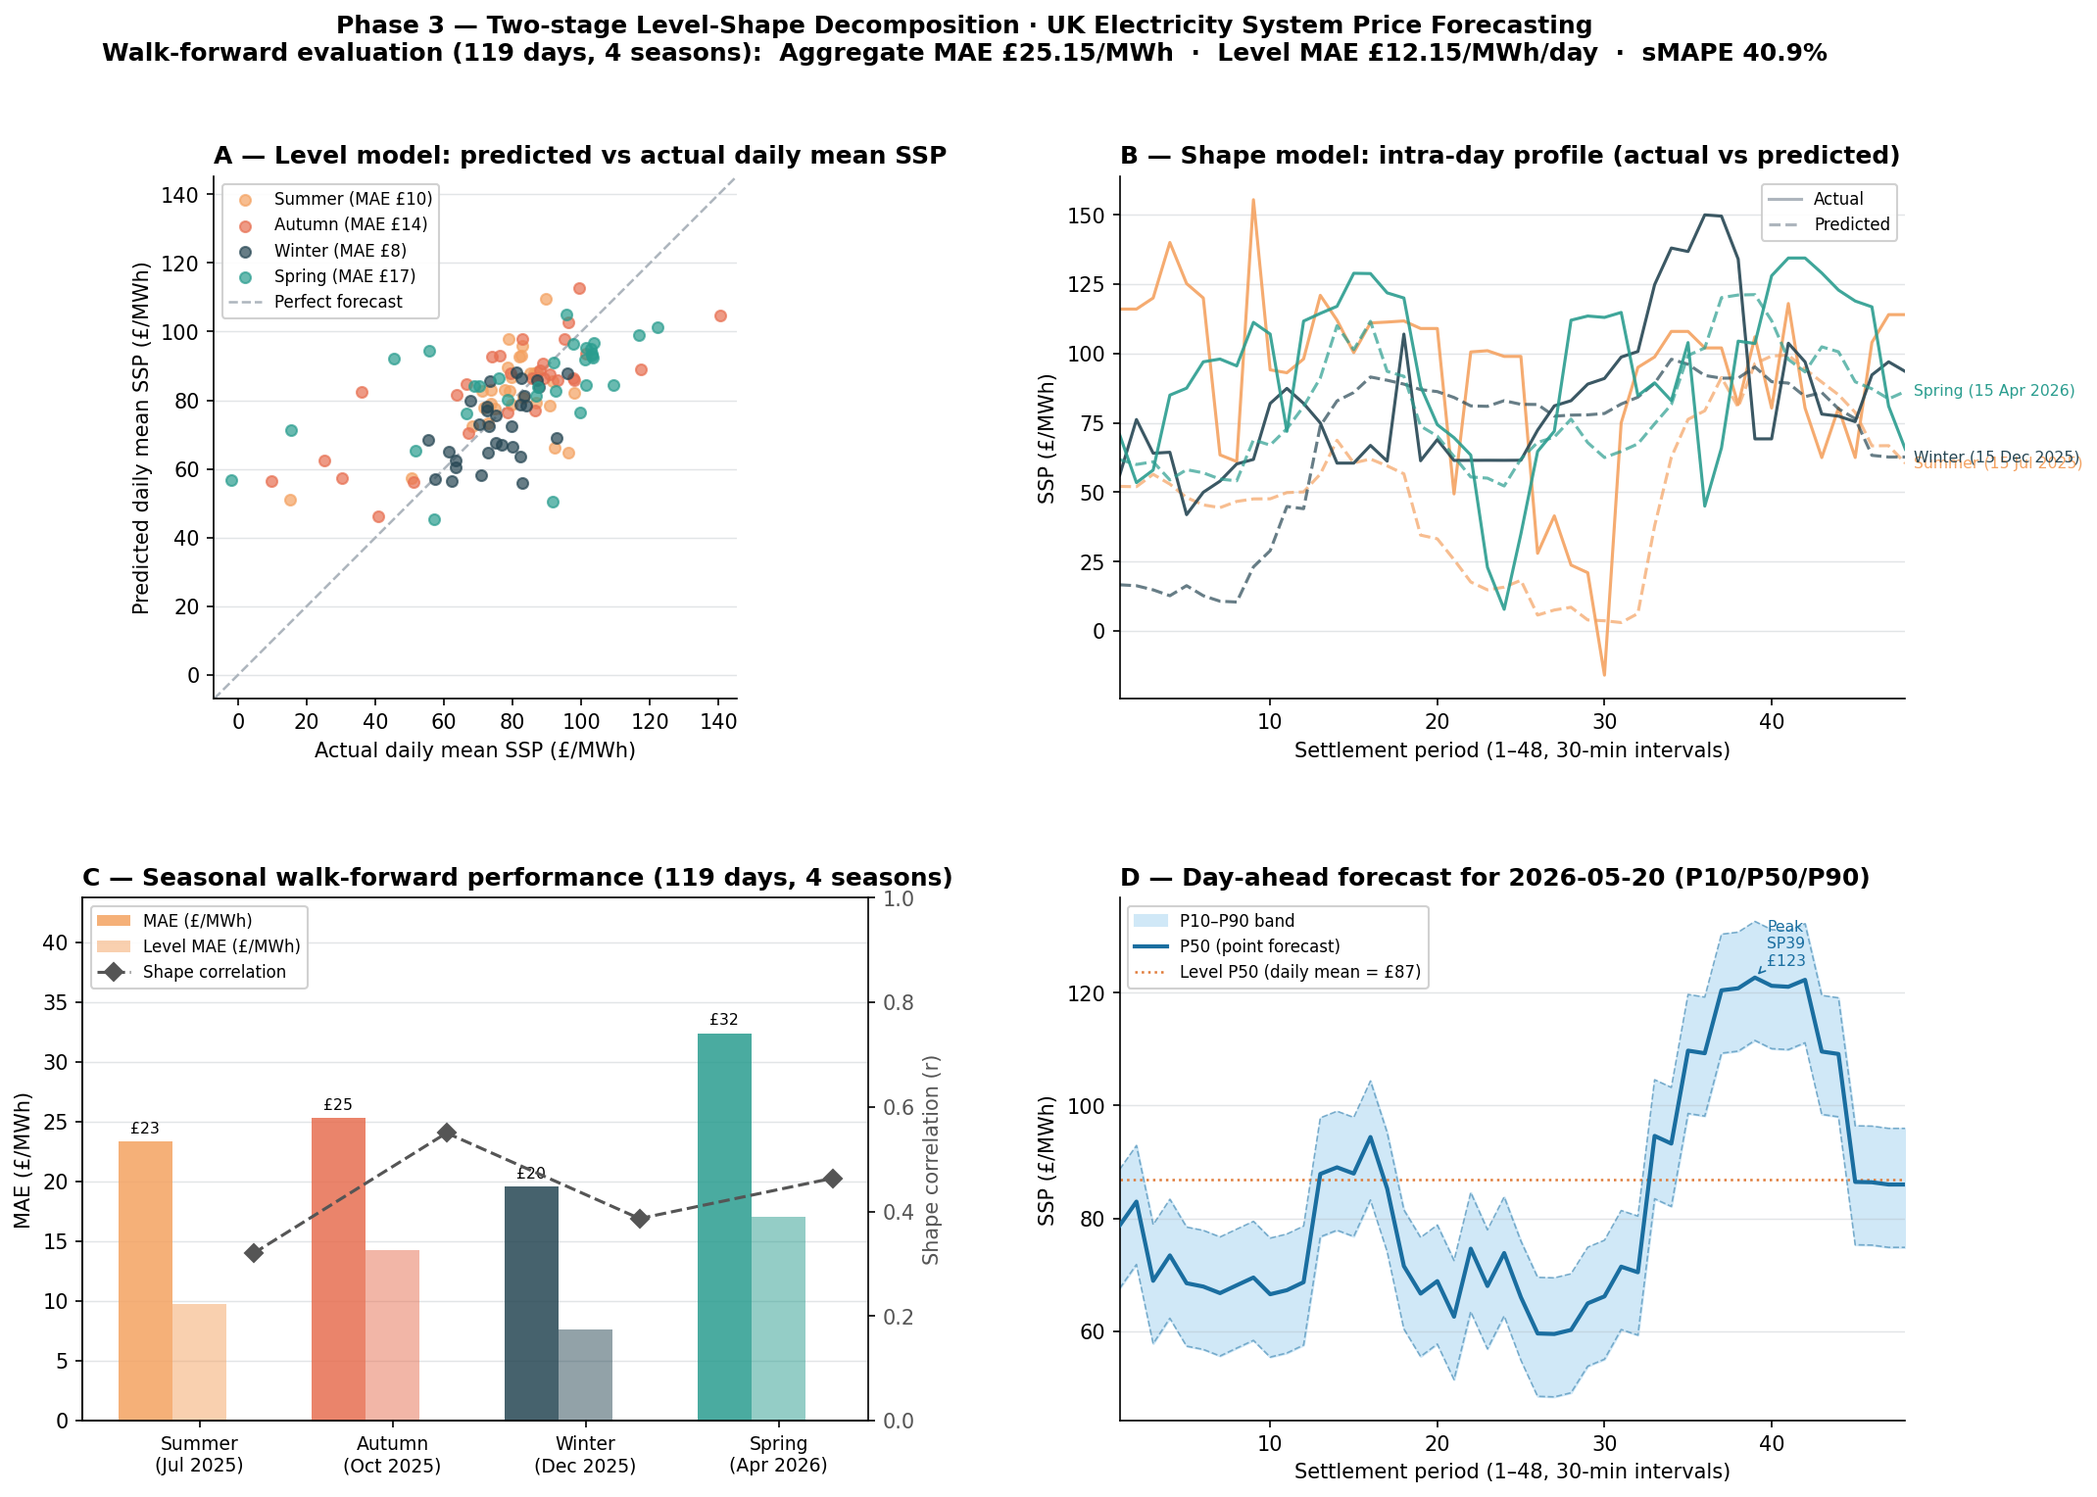
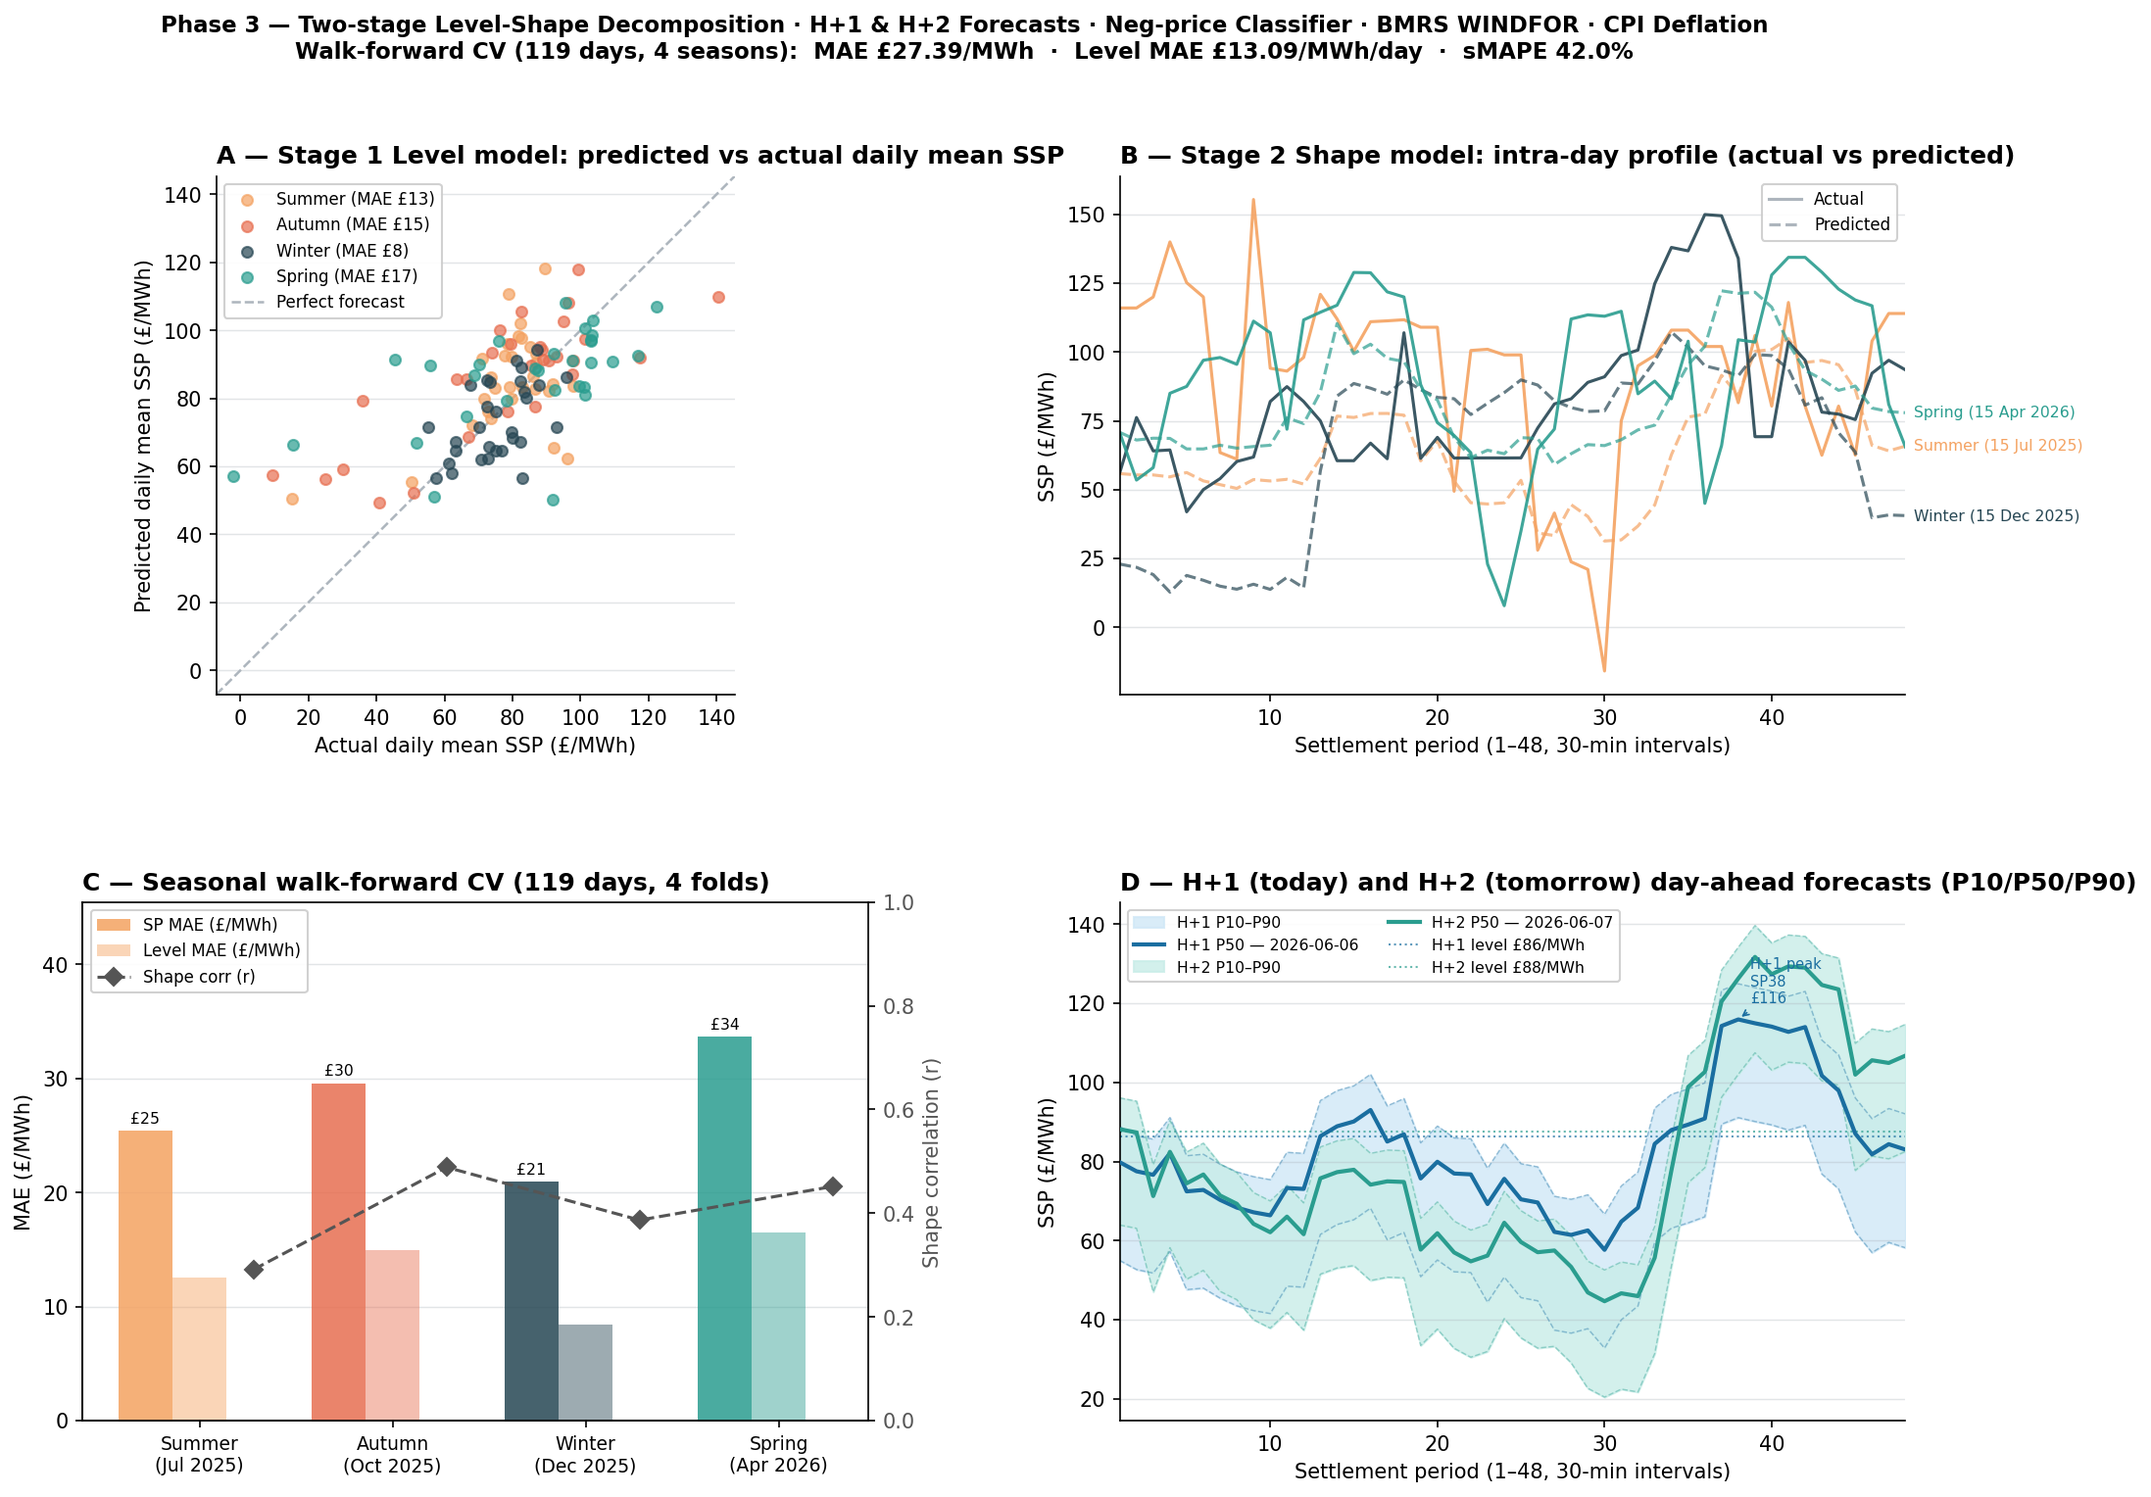
Update demo: Panel D shows H+1 and H+2 forecasts; refresh suptitle
- Panel D now overlays H+1 (blue) and H+2 (teal) P10/P50/P90 bands
  with level reference lines for both horizons
- Suptitle updated to mention H+2, neg-price classifier, WINDFOR, CPI deflation
- Panel C shape correlation fixed to use raw r (not scaled)
- Removed unused peak_timing metric from decomp_metrics

diff --git a/demo/demo_phase3.py b/demo/demo_phase3.py
@@ -6,7 +6,7 @@ Generates a four-panel figure from pre-computed results (no model re-training):
   Panel A — Level model: predicted vs actual daily mean SSP across 4 seasons
   Panel B — Shape model: intra-day profiles for three example days
   Panel C — Seasonal walk-forward performance summary
-  Panel D — Tomorrow's P10/P50/P90 forecast (latest available)
+  Panel D — H+1 (today) and H+2 (tomorrow) P10/P50/P90 forecasts
 
 Usage:
     python demo/demo_phase3.py
@@ -17,20 +17,19 @@ import argparse
 from pathlib import Path
 
 import matplotlib
-import matplotlib.dates as mdates
 import matplotlib.gridspec as gridspec
-import matplotlib.patches as mpatches
 import matplotlib.pyplot as plt
 import numpy as np
 import pandas as pd
+from matplotlib.lines import Line2D
 from scipy.stats import pearsonr
 
 ROOT = Path(__file__).resolve().parents[1]
 
-ASSETS    = ROOT / "model_assets"
-WF_FILE   = ASSETS / "walk_forward_predictions.csv"
-TEST_FILE = ASSETS / "test_predictions_phase3.csv"
-FC_FILE   = ASSETS / "next_day_forecast_phase3.csv"
+ASSETS   = ROOT / "model_assets"
+WF_FILE  = ASSETS / "walk_forward_predictions.csv"
+FC_H1    = ASSETS / "next_day_forecast_phase3.csv"   # H+1 today
+FC_H2    = ASSETS / "day2_forecast_phase3.csv"        # H+2 tomorrow
 
 FOLD_ORDER  = ["summer-2025", "autumn-2025", "winter-2025", "spring-2026"]
 FOLD_LABELS = ["Summer\n(Jul 2025)", "Autumn\n(Oct 2025)",
@@ -38,10 +37,11 @@ FOLD_LABELS = ["Summer\n(Jul 2025)", "Autumn\n(Oct 2025)",
 FOLD_COLORS = ["#f4a261", "#e76f51", "#264653", "#2a9d8f"]
 
 BLUE   = "#1a6ea0"
+TEAL   = "#2a9d8f"
 ORANGE = "#e07b39"
 GREY   = "#adb5bd"
-GREEN  = "#2a9d8f"
-BAND   = "#d0e8f7"
+BAND_H1 = "#d0e8f7"
+BAND_H2 = "#c8ede8"
 
 
 # ── helpers ───────────────────────────────────────────────────────────────────
@@ -52,7 +52,7 @@ def smape_val(actual, pred):
 
 
 def decomp_metrics(df):
-    level_errs, shape_corrs, peak_gaps = [], [], []
+    level_errs, shape_corrs = [], []
     for _, grp in df.groupby("settlement_date"):
         grp = grp.sort_values("settlement_period")
         level_errs.append(abs(grp["pred_level_q50"].iloc[0] - grp["actual_daily_level"].iloc[0]))
@@ -61,12 +61,9 @@ def decomp_metrics(df):
         if a.std() > 0 and p.std() > 0:
             r, _ = pearsonr(a, p)
             shape_corrs.append(r)
-        peak_gaps.append(abs(np.argmax(grp["ssp_actual"].values) -
-                             np.argmax(grp["ssp_predicted"].values)))
     return {
         "level_mae":  np.mean(level_errs),
         "shape_corr": np.mean(shape_corrs),
-        "peak_timing": np.mean(peak_gaps),
     }
 
 
@@ -84,9 +81,12 @@ def panel_level(ax, wf: pd.DataFrame):
 
     for fold, color in zip(FOLD_ORDER, FOLD_COLORS):
         sub = daily[daily["fold"] == fold].sort_values("settlement_date")
+        if sub.empty:
+            continue
         mae = (sub["predicted"] - sub["actual"]).abs().mean()
         ax.scatter(sub["actual"], sub["predicted"], color=color, alpha=0.7,
-                   s=28, zorder=3, label=f"{fold.split('-')[0].capitalize()} (MAE £{mae:.0f})")
+                   s=28, zorder=3,
+                   label=f"{fold.split('-')[0].capitalize()} (MAE £{mae:.0f})")
 
     lims = [daily[["actual", "predicted"]].min().min() - 5,
             daily[["actual", "predicted"]].max().max() + 5]
@@ -94,7 +94,8 @@ def panel_level(ax, wf: pd.DataFrame):
     ax.set_xlim(lims); ax.set_ylim(lims)
     ax.set_xlabel("Actual daily mean SSP (£/MWh)")
     ax.set_ylabel("Predicted daily mean SSP (£/MWh)")
-    ax.set_title("A — Level model: predicted vs actual daily mean SSP", fontweight="bold", loc="left")
+    ax.set_title("A — Stage 1 Level model: predicted vs actual daily mean SSP",
+                 fontweight="bold", loc="left")
     ax.legend(fontsize=8, framealpha=0.9)
     ax.set_aspect("equal")
 
@@ -102,23 +103,26 @@ def panel_level(ax, wf: pd.DataFrame):
 def panel_shape(ax, wf: pd.DataFrame):
     """Panel B: intra-day shape profiles for one representative day per fold type."""
     examples = {
-        "summer-2025":  "2025-07-15",
-        "winter-2025":  "2025-12-15",
-        "spring-2026":  "2026-04-15",
+        "summer-2025": "2025-07-15",
+        "winter-2025": "2025-12-15",
+        "spring-2026": "2026-04-15",
     }
-    label_map = {"summer-2025": "Summer (15 Jul 2025)",
-                 "winter-2025": "Winter (15 Dec 2025)",
-                 "spring-2026": "Spring (15 Apr 2026)"}
-    colors    = {"summer-2025": FOLD_COLORS[0],
-                 "winter-2025": FOLD_COLORS[2],
-                 "spring-2026": FOLD_COLORS[3]}
+    label_map = {
+        "summer-2025": "Summer (15 Jul 2025)",
+        "winter-2025": "Winter (15 Dec 2025)",
+        "spring-2026": "Spring (15 Apr 2026)",
+    }
+    colors = {
+        "summer-2025": FOLD_COLORS[0],
+        "winter-2025": FOLD_COLORS[2],
+        "spring-2026": FOLD_COLORS[3],
+    }
 
     for fold, date in examples.items():
         sub = wf[(wf["fold"] == fold) & (wf["settlement_date"] == date)].sort_values("settlement_period")
         if sub.empty:
-            # pick any day from that fold
             sub = wf[wf["fold"] == fold].sort_values("settlement_date")
-            date = sub["settlement_date"].iloc[len(sub)//2]
+            date = sub["settlement_date"].iloc[len(sub) // 2]
             sub  = wf[(wf["fold"] == fold) & (wf["settlement_date"] == date)].sort_values("settlement_period")
         sp   = sub["settlement_period"].values
         act  = sub["ssp_actual"].values
@@ -130,40 +134,43 @@ def panel_shape(ax, wf: pd.DataFrame):
                     xytext=(4, 0), textcoords="offset points",
                     fontsize=7.5, color=c, va="center")
 
-    from matplotlib.lines import Line2D
     handles = [Line2D([0], [0], color=GREY, lw=1.5, label="Actual"),
                Line2D([0], [0], color=GREY, lw=1.5, linestyle="--", label="Predicted")]
     ax.set_xlabel("Settlement period (1–48, 30-min intervals)")
     ax.set_ylabel("SSP (£/MWh)")
-    ax.set_title("B — Shape model: intra-day profile (actual vs predicted)", fontweight="bold", loc="left")
+    ax.set_title("B — Stage 2 Shape model: intra-day profile (actual vs predicted)",
+                 fontweight="bold", loc="left")
     ax.set_xlim(1, 48)
     ax.legend(handles=handles, fontsize=8, framealpha=0.9)
 
 
 def panel_seasonal(ax, wf: pd.DataFrame):
-    """Panel C: grouped bar chart of seasonal metrics."""
+    """Panel C: grouped bar chart of seasonal MAE, Level MAE, and shape correlation."""
     rows = []
     for fold in FOLD_ORDER:
         f = wf[wf["fold"] == fold]
         if f.empty:
             continue
-        m = decomp_metrics(f)
+        m   = decomp_metrics(f)
         mae = (f["ssp_predicted"] - f["ssp_actual"]).abs().mean()
-        rows.append({"fold": fold, "MAE": mae, "LevelMAE": m["level_mae"],
-                     "ShapeCorr": m["shape_corr"] * 50})  # scaled for dual-axis
+        rows.append({"fold": fold, "MAE": mae,
+                     "LevelMAE": m["level_mae"],
+                     "ShapeCorr": m["shape_corr"]})
 
     df = pd.DataFrame(rows)
     x  = np.arange(len(df))
     w  = 0.28
 
-    bars1 = ax.bar(x - w, df["MAE"],      w, color=[FOLD_COLORS[i] for i in range(len(df))],
-                   alpha=0.85, label="MAE (£/MWh)", zorder=3)
-    bars2 = ax.bar(x,     df["LevelMAE"], w, color=[FOLD_COLORS[i] for i in range(len(df))],
-                   alpha=0.5, label="Level MAE (£/MWh)", zorder=3)
+    bars1 = ax.bar(x - w, df["MAE"],      w,
+                   color=[FOLD_COLORS[i] for i in range(len(df))],
+                   alpha=0.85, label="SP MAE (£/MWh)", zorder=3)
+    ax.bar(x, df["LevelMAE"], w,
+           color=[FOLD_COLORS[i] for i in range(len(df))],
+           alpha=0.45, label="Level MAE (£/MWh)", zorder=3)
 
     ax2 = ax.twinx()
-    ax2.plot(x + w, df["ShapeCorr"] / 50, "D--", color="#555", lw=1.5,
-             markersize=6, label="Shape correlation")
+    ax2.plot(x + w, df["ShapeCorr"], "D--", color="#555", lw=1.5,
+             markersize=6, label="Shape corr (r)")
     ax2.set_ylabel("Shape correlation (r)", color="#555")
     ax2.set_ylim(0, 1)
     ax2.tick_params(axis="y", labelcolor="#555")
@@ -171,76 +178,95 @@ def panel_seasonal(ax, wf: pd.DataFrame):
     ax.set_xticks(x)
     ax.set_xticklabels(FOLD_LABELS[:len(df)], fontsize=9)
     ax.set_ylabel("MAE (£/MWh)")
-    ax.set_title("C — Seasonal walk-forward performance (119 days, 4 seasons)", fontweight="bold", loc="left")
+    ax.set_title("C — Seasonal walk-forward CV (119 days, 4 folds)",
+                 fontweight="bold", loc="left")
 
     h1, l1 = ax.get_legend_handles_labels()
     h2, l2 = ax2.get_legend_handles_labels()
     ax.legend(h1 + h2, l1 + l2, fontsize=8, framealpha=0.9, loc="upper left")
     ax.set_ylim(0, max(df["MAE"].max(), df["LevelMAE"].max()) * 1.35)
 
-    # Annotate MAE values
     for bar, v in zip(bars1, df["MAE"]):
-        ax.text(bar.get_x() + bar.get_width() / 2, bar.get_height() + 0.5,
+        ax.text(bar.get_x() + bar.get_width() / 2, bar.get_height() + 0.4,
                 f"£{v:.0f}", ha="center", va="bottom", fontsize=7.5)
 
 
-def panel_forecast(ax, fc: pd.DataFrame):
-    """Panel D: latest P10/P50/P90 day-ahead forecast."""
-    fc = fc.sort_values("settlement_period")
-    sp  = fc["settlement_period"].values
-    q10 = fc["ssp_q10"].values
-    q50 = fc["ssp_q50"].values
-    q90 = fc["ssp_q90"].values
-    date = fc["settlement_date"].iloc[0]
+def panel_forecast(ax, h1: pd.DataFrame, h2: pd.DataFrame):
+    """Panel D: H+1 (today) and H+2 (tomorrow) P10/P50/P90 forecasts overlaid."""
+    h1 = h1.sort_values("settlement_period")
+    h2 = h2.sort_values("settlement_period")
 
-    ax.fill_between(sp, q10, q90, color=BAND, zorder=1, label="P10–P90 band")
-    ax.plot(sp, q10, color=BLUE, lw=0.8, alpha=0.5, linestyle="--")
-    ax.plot(sp, q90, color=BLUE, lw=0.8, alpha=0.5, linestyle="--")
-    ax.plot(sp, q50, color=BLUE, lw=2.0, zorder=3, label="P50 (point forecast)")
+    sp1  = h1["settlement_period"].values
+    sp2  = h2["settlement_period"].values
+    date1 = h1["settlement_date"].iloc[0]
+    date2 = h2["settlement_date"].iloc[0]
 
-    level = fc["pred_daily_level"].iloc[0]
-    ax.axhline(level, color=ORANGE, lw=1.2, linestyle=":", zorder=2,
-               label=f"Level P50 (daily mean = £{level:.0f})")
+    # H+1 band and lines
+    ax.fill_between(sp1, h1["ssp_q10"], h1["ssp_q90"],
+                    color=BAND_H1, zorder=1, alpha=0.8, label="H+1 P10–P90")
+    ax.plot(sp1, h1["ssp_q10"], color=BLUE, lw=0.7, alpha=0.4, linestyle="--")
+    ax.plot(sp1, h1["ssp_q90"], color=BLUE, lw=0.7, alpha=0.4, linestyle="--")
+    ax.plot(sp1, h1["ssp_q50"], color=BLUE, lw=2.0, zorder=3,
+            label=f"H+1 P50 — {date1}")
 
-    # Label peak
-    pk = int(np.argmax(q50))
-    ax.annotate(f"Peak\nSP{sp[pk]}\n£{q50[pk]:.0f}",
-                xy=(sp[pk], q50[pk]), xytext=(6, 6),
-                textcoords="offset points", fontsize=7.5, color=BLUE,
+    # H+2 band and lines
+    ax.fill_between(sp2, h2["ssp_q10"], h2["ssp_q90"],
+                    color=BAND_H2, zorder=1, alpha=0.8, label="H+2 P10–P90")
+    ax.plot(sp2, h2["ssp_q10"], color=TEAL, lw=0.7, alpha=0.4, linestyle="--")
+    ax.plot(sp2, h2["ssp_q90"], color=TEAL, lw=0.7, alpha=0.4, linestyle="--")
+    ax.plot(sp2, h2["ssp_q50"], color=TEAL, lw=2.0, zorder=3,
+            label=f"H+2 P50 — {date2}")
+
+    # Level reference lines
+    lvl1 = h1["pred_daily_level"].iloc[0]
+    lvl2 = h2["pred_daily_level"].iloc[0]
+    ax.axhline(lvl1, color=BLUE,   lw=1.0, linestyle=":", alpha=0.7,
+               label=f"H+1 level £{lvl1:.0f}/MWh")
+    ax.axhline(lvl2, color=TEAL,   lw=1.0, linestyle=":", alpha=0.7,
+               label=f"H+2 level £{lvl2:.0f}/MWh")
+
+    # Annotate H+1 peak
+    pk1 = int(np.argmax(h1["ssp_q50"].values))
+    ax.annotate(f"H+1 peak\nSP{sp1[pk1]}\n£{h1['ssp_q50'].values[pk1]:.0f}",
+                xy=(sp1[pk1], h1["ssp_q50"].values[pk1]), xytext=(6, 8),
+                textcoords="offset points", fontsize=7, color=BLUE,
                 arrowprops=dict(arrowstyle="->", color=BLUE, lw=0.8))
 
     ax.set_xlabel("Settlement period (1–48, 30-min intervals)")
     ax.set_ylabel("SSP (£/MWh)")
-    ax.set_title(f"D — Day-ahead forecast for {date} (P10/P50/P90)", fontweight="bold", loc="left")
-    ax.legend(fontsize=8, framealpha=0.9)
+    ax.set_title("D — H+1 (today) and H+2 (tomorrow) day-ahead forecasts (P10/P50/P90)",
+                 fontweight="bold", loc="left")
+    ax.legend(fontsize=7.5, framealpha=0.9, ncol=2)
     ax.set_xlim(1, 48)
 
 
 # ── main ──────────────────────────────────────────────────────────────────────
 
 def main(save_path=None):
-    wf   = pd.read_csv(WF_FILE,   parse_dates=["settlement_datetime"])
-    fc   = pd.read_csv(FC_FILE,   parse_dates=["settlement_datetime"])
+    wf = pd.read_csv(WF_FILE, parse_dates=["settlement_datetime"])
+    h1 = pd.read_csv(FC_H1,  parse_dates=["settlement_datetime"])
+    h2 = pd.read_csv(FC_H2,  parse_dates=["settlement_datetime"])
 
-    # Aggregate walk-forward metrics for the title
+    # Aggregate walk-forward metrics for suptitle
     wf_mae   = (wf["ssp_predicted"] - wf["ssp_actual"]).abs().mean()
     wf_lvl   = wf.groupby(["fold", "settlement_date"]).apply(
         lambda g: abs(g["pred_level_q50"].iloc[0] - g["actual_daily_level"].iloc[0]),
-        include_groups=False
+        include_groups=False,
     ).mean()
     wf_smape = smape_val(wf["ssp_actual"].values, wf["ssp_predicted"].values)
 
     fig = plt.figure(figsize=(16, 11))
     fig.suptitle(
-        "Phase 3 — Two-stage Level-Shape Decomposition · UK Electricity System Price Forecasting\n"
-        f"Walk-forward evaluation (119 days, 4 seasons):  "
-        f"Aggregate MAE £{wf_mae:.2f}/MWh  ·  "
+        "Phase 3 — Two-stage Level-Shape Decomposition · H+1 & H+2 Forecasts · "
+        "Neg-price Classifier · BMRS WINDFOR · CPI Deflation\n"
+        f"Walk-forward CV (119 days, 4 seasons):  "
+        f"MAE £{wf_mae:.2f}/MWh  ·  "
         f"Level MAE £{wf_lvl:.2f}/MWh/day  ·  "
         f"sMAPE {wf_smape:.1f}%",
-        fontsize=12, fontweight="bold", y=0.98,
+        fontsize=11, fontweight="bold", y=0.98,
     )
 
-    gs = gridspec.GridSpec(2, 2, figure=fig, hspace=0.38, wspace=0.32)
+    gs   = gridspec.GridSpec(2, 2, figure=fig, hspace=0.40, wspace=0.32)
     ax_a = fig.add_subplot(gs[0, 0])
     ax_b = fig.add_subplot(gs[0, 1])
     ax_c = fig.add_subplot(gs[1, 0])
@@ -249,7 +275,7 @@ def main(save_path=None):
     panel_level(ax_a, wf)
     panel_shape(ax_b, wf)
     panel_seasonal(ax_c, wf)
-    panel_forecast(ax_d, fc)
+    panel_forecast(ax_d, h1, h2)
 
     for ax in [ax_a, ax_b, ax_c, ax_d]:
         ax.grid(axis="y", color=GREY, alpha=0.35, lw=0.7)
